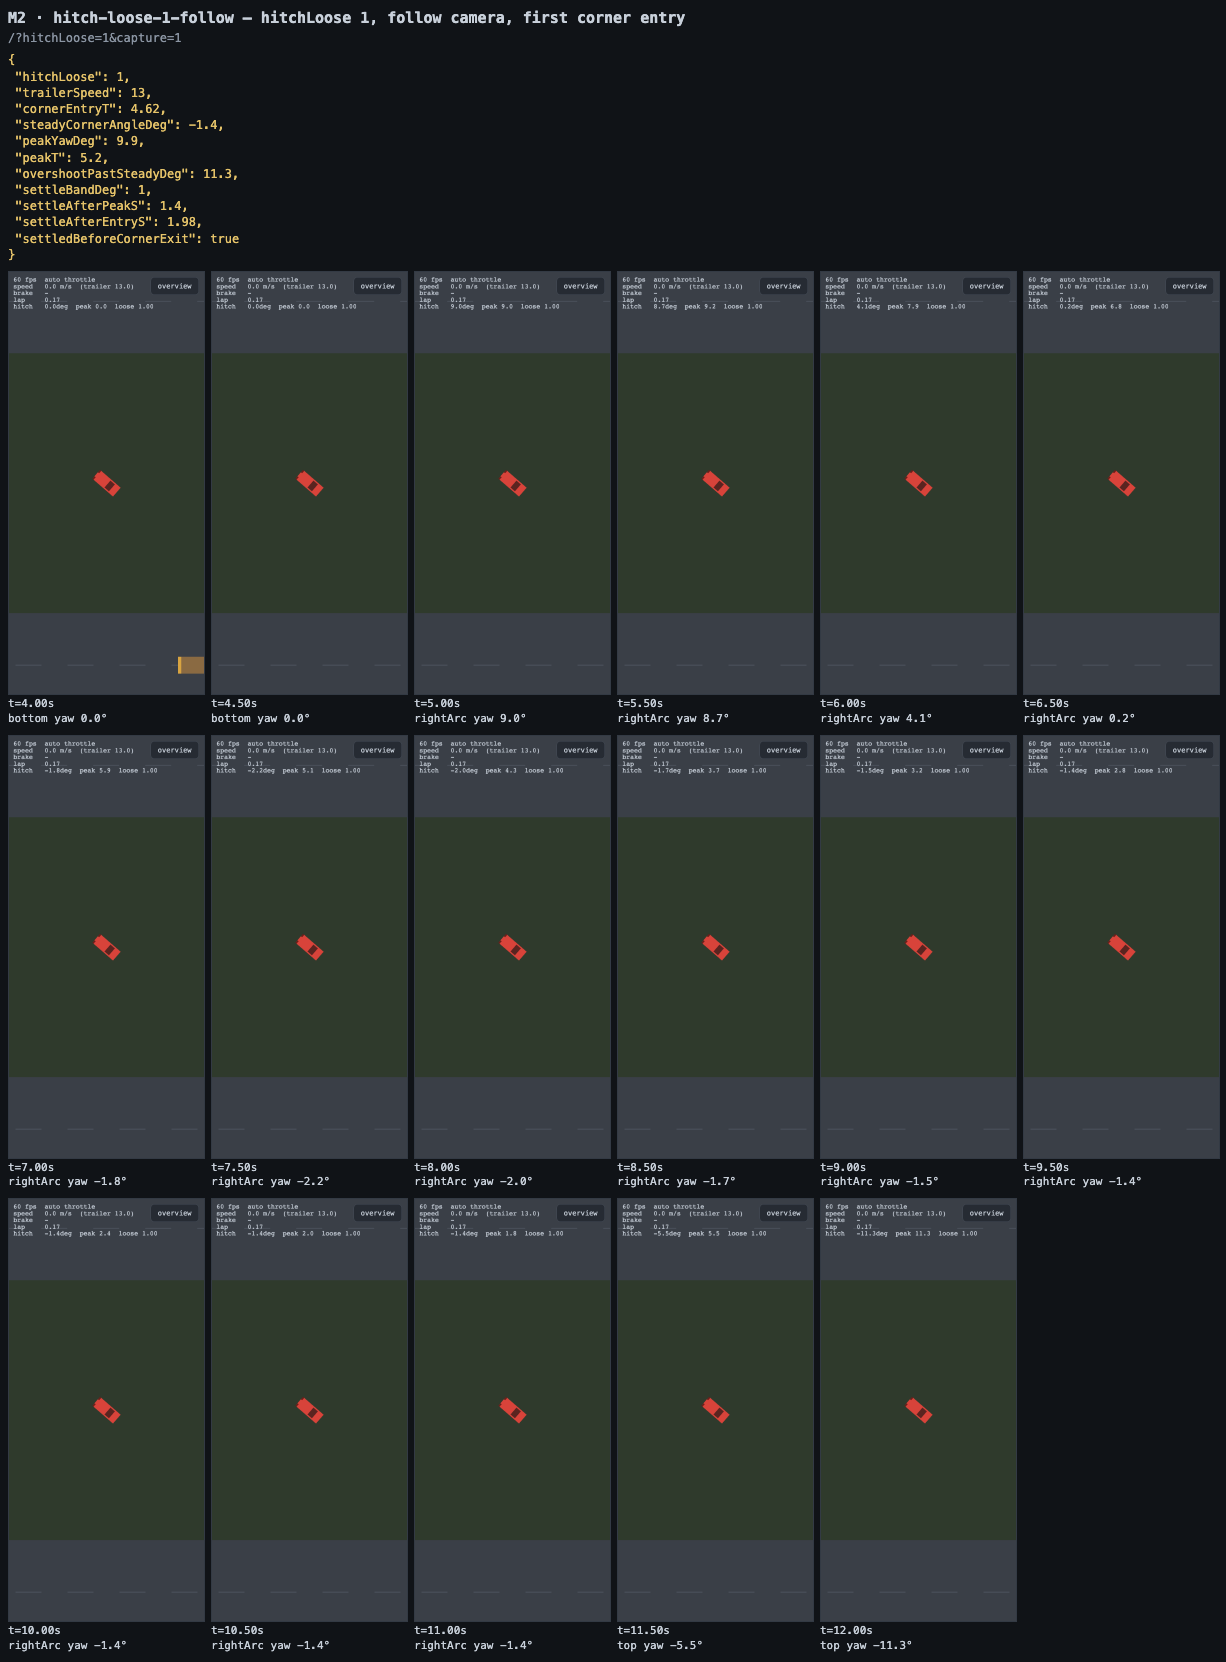
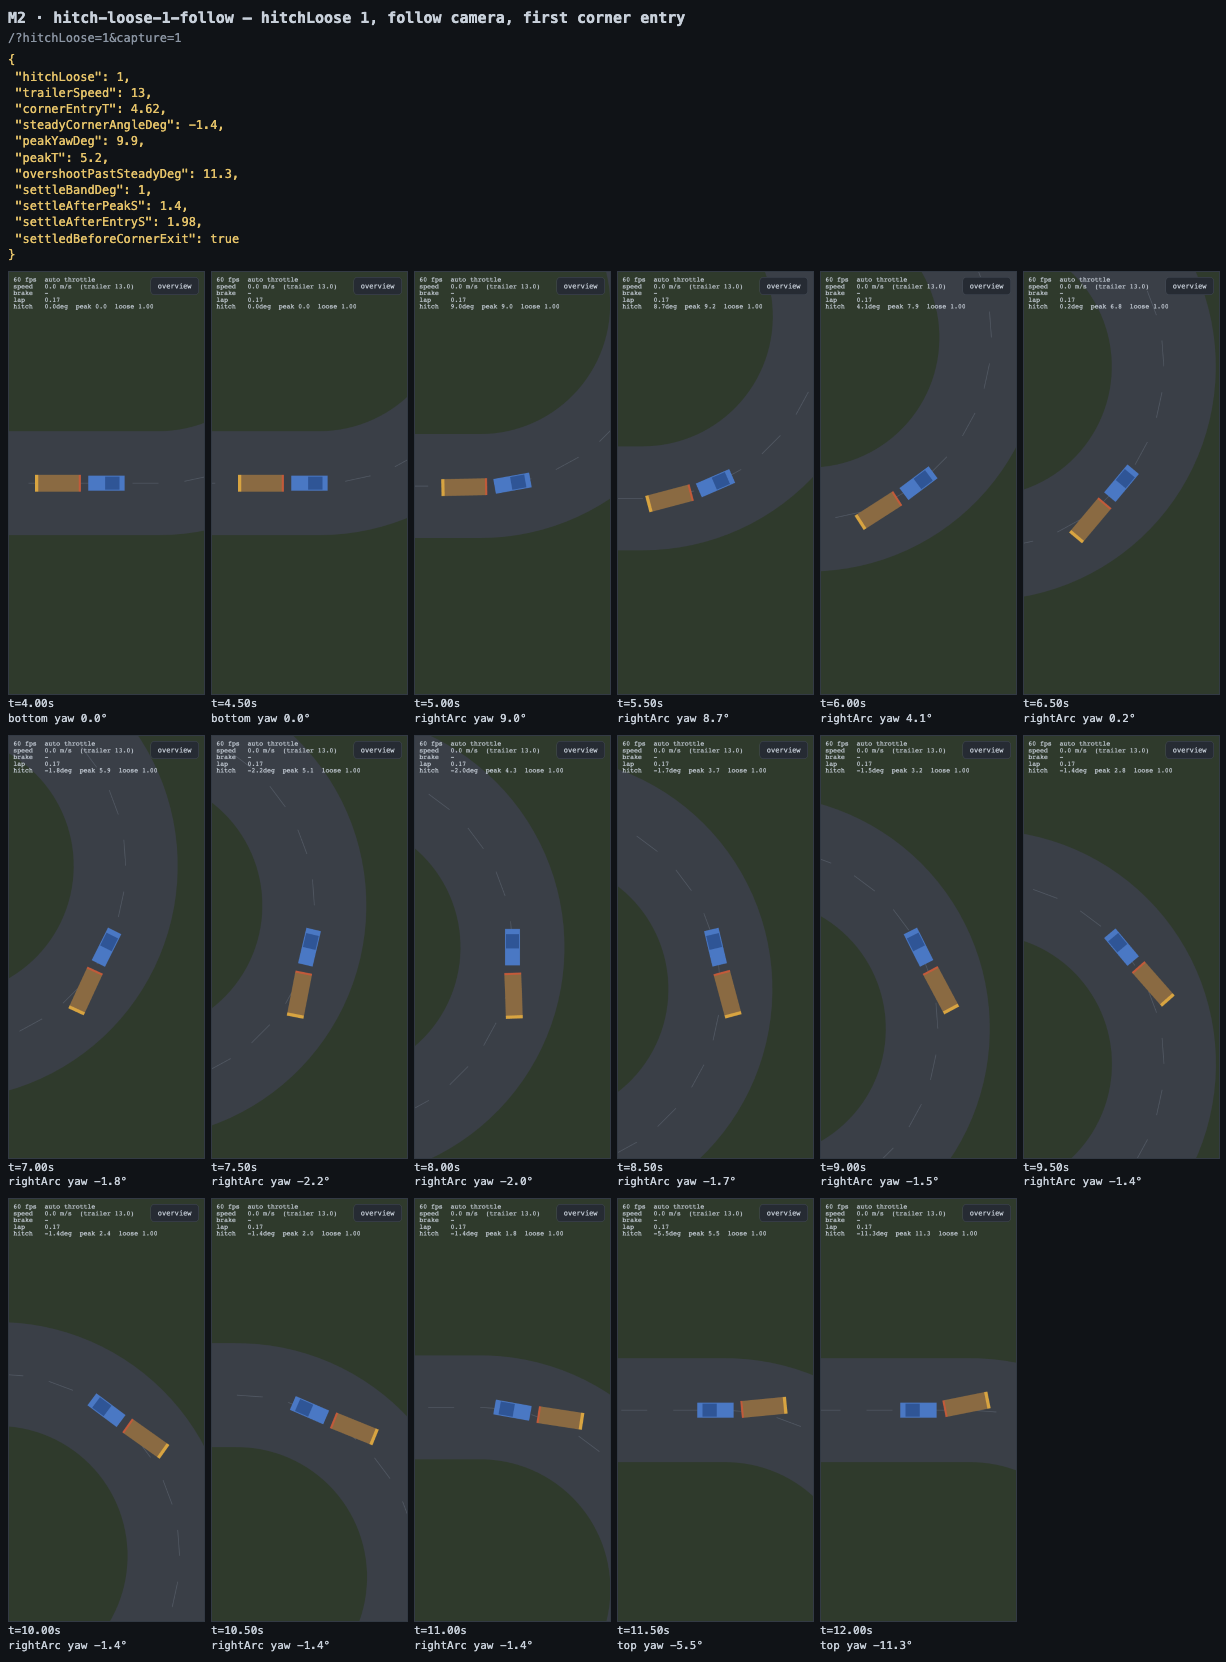
Follow the truck when the car is parked, so M2 follow captures show the rig

diff --git a/src/scenes/PlayScene.js b/src/scenes/PlayScene.js
@@ -196,8 +196,9 @@ export default class PlayScene extends Phaser.Scene {
     this.drawCar();
 
     const cam = this.cameras.main;
-    const cp = this.car.pose();
-    if (!this.overview) cam.centerOn(mToPx(cp.x), mToPx(cp.y));
+    // Follow the car; with the car parked (rig-only captures), follow the truck.
+    const f = this.car.parked ? this.rig.truck.translation() : this.car.pose();
+    if (!this.overview) cam.centerOn(mToPx(f.x), mToPx(f.y));
 
     const tp = this.rig.pose();
     const yaw = Phaser.Math.RadToDeg(
